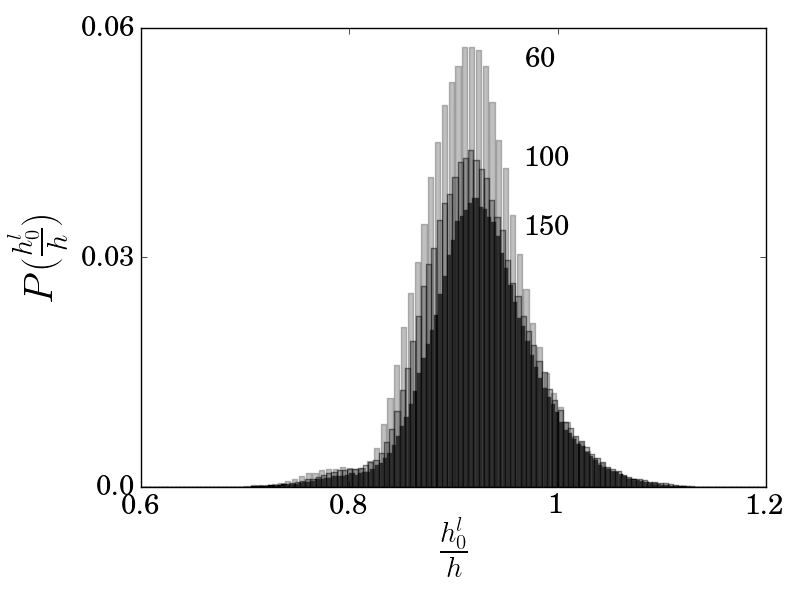
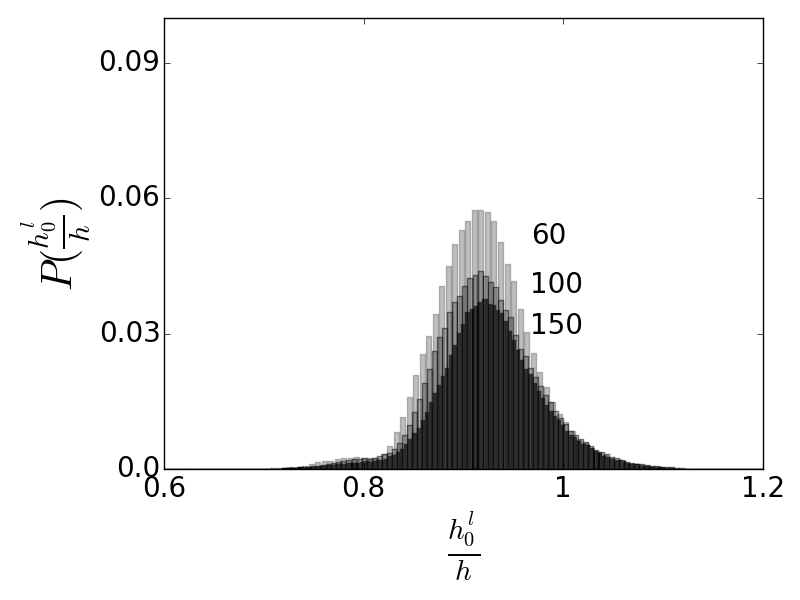
Fig 4 page 18

Changed region(s): [[0.0, 0.03, 1.0, 0.96]]

diff --git a/nchap_sub.tex b/nchap_sub.tex
@@ -343,9 +343,7 @@ In their LES study \cite{BrooksFowler2} encountered inconsistencies when determi
 \quad
 \begin{minipage}[b]{0.5\linewidth}
         \subfloat[]{\label{main:b}          
-          
-                \includegraphics[scale=.31]{figures/rss_fit_low}}
-       
+                \includegraphics[scale=.31]{figures/rss_fit_low}}\\       
        \end{minipage}
 \caption[High local ML ]{Local vertical $\theta$ profiles with 3-line fit for the 60/2.5 run at a point where $h^{l}_{0}$ (a) is high and (b) low.}
 \label{fig:rssfitshigh}
@@ -371,24 +369,24 @@ In their LES study \cite{BrooksFowler2} encountered inconsistencies when determi
 
 Here the CBL height ($h$) is defined as the location of maximum scaled vertical $\overline{\theta}$ gradient as in Figure \ref{fig:hdefs}.  The lower and upper EZ boundaries ($h_{0}$ and $h_{1}$) are then the points at which $\frac{\frac{\partial \overline{\theta}}{\partial z}}{\gamma}$ significantly exceeds zero and where it resumes $1$.  The lower boundary requires a choice of a threshold value which should be small, positive and less than $1$. \cite{FedConzMir04} and \cite{BrooksFowler2} defined the EZ in terms of the vertical $\overline{w^{'}\theta^{'}}$ profiles as in Figure \ref{fig:hdefs} but disagreed on the shape of the relationship of scaled EZ depth to $Ri$ (equation 2.1).  As well as observing this relationship using the height definitions based on the $\frac{\frac{\partial \overline{\theta}}{\partial z}}{\gamma}$ profile, definitions based on the $\frac{\overline{w^{'}\theta^{'}}}{(\overline{w^{'}\theta^{'}})_{s}}$ profile are applied for comparison with \cite{BrooksFowler2}, \cite{FedConzMir04} and \cite{GarciaMellado}.\\  
 
-\begin{figure}[htbp]
-\thisfloatpagestyle{empty}
-\begin
-{minipage}[b]{0.5\linewidth}
-         \subfloat[]{\label{main:a}
-                \includegraphics[scale=.22]{ML_Height_hist_5}
-}\\
-\end{minipage}
-\quad
-\begin{minipage}[b]{0.5\linewidth}
-         \subfloat[]{\label{main:b}
-                \includegraphics[scale=.22]{Scaled_ML_Height_hist_5}
-}\\     
+%\begin{figure}[htbp]
+%\thisfloatpagestyle{empty}
+%\begin
+%{minipage}[b]{0.5\linewidth}
+%         \subfloat[]{\label{main:a}
+%                \includegraphics[scale=.22]{ML_Height_hist_5}
+%}\\
+%\end{minipage}
+%\quad
+%\begin{minipage}[b]{0.5\linewidth}
+%         \subfloat[]{\label{main:b}
+%                \includegraphics[scale=.22]{Scaled_ML_Height_hist_5}
+%}\\     
         
-\end{minipage}
-\caption[Local ML Height Distributions]{Histograms of local ML heights ($h^{l}_{0}$) for the three runs with $\gamma = 5$ Kkm$^{-1}$ are shown in (a). Darker shading corresponds to increase in $(\overline{w^{'}\theta^{'}})_{s}$, i.e. $60 - 150$ Wm$^{-1}$ per plot annotation. Counts are per height bin and bin-widths are 5m.  Probability distributions of scaled local ML height ($\frac{h^{l}_{0}}{h}$) for the three runs with $\gamma = 5$Kkm$^{-1}$ are shown in (b). The probabilities are the proportions in each scaled height bin. Both sets of plots are taken at 5 hours.}    
-\label{fig:localh}
-\end{figure}
+%\end{minipage}
+%\caption[Local ML Height Distributions]{Histograms of local ML heights ($h^{l}_{0}$) for the three runs with $\gamma = 5$ Kkm$^{-1}$ are shown in (a). Darker shading corresponds to increase in $(\overline{w^{'}\theta^{'}})_{s}$, i.e. $60 - 150$ Wm$^{-1}$ per plot annotation. Counts are per height bin and bin-widths are 5m.  Probability distributions of scaled local ML height ($\frac{h^{l}_{0}}{h}$) for the three runs with $\gamma = 5$Kkm$^{-1}$ are shown in (b). The probabilities are the proportions in each scaled height bin. Both sets of plots are taken at 5 hours.}    
+%\label{fig:localh}
+%\end{figure}
 
 \begin{figure}[htbp]
     \centering
@@ -423,25 +421,49 @@ Here the CBL height ($h$) is defined as the location of maximum scaled vertical 
 The distribution of $h_{0}^{l}$ represents the range over which CBL height varies in space so relates to the depth of the entrainment zone (EZ).  In Fig. \ref{fig:localh} (a) it widens with increasing $(\overline{w^{'}\theta^{'}})_{s}$ and is seen to narrow with increasing $\gamma$ in analysis not shown here.  When scaled by $h$, the local ML height distribution narrows with increased $\gamma$.  The upper boundary seems to be constant at about 1.1($\times h$) , whereas the lower boundary increases.  When $h_{0}^{l}$s are lower and their distribution is narrower, the scaled versions have relatively larger spacing between bins and so higher numbers in each bin. In Figure \ref{fig:localh} (b), at higher $(\overline{w^{'}\theta^{'}})_{s}$ there are fewer $\frac{h_{0}^{l}}{h}$ values with higher probabilities, but the width of the distributions is more or less constant regardless of $(w^{'}\theta^{'})_{s}$.\\
 
 
-\begin{figure}[htbp]
-\thisfloatpagestyle{empty}
-\begin
-{minipage}[b]{0.5\linewidth}
-         \subfloat[]{\label{main:a}
-                \includegraphics[scale=.22]{figures/ML_Height_hist_5}
-}\\
-\end{minipage}
-\quad
-\begin{minipage}[b]{0.5\linewidth}
-         \subfloat[]{\label{main:b}
-                \includegraphics[scale=.22]{figures/Scaled_ML_Height_hist_5}
-}\\     
+%\begin{figure}[htbp]
+%\thisfloatpagestyle{empty}
+%\begin
+%{minipage}[b]{0.5\linewidth}
+%         \subfloat[]{\label{main:a}
+%                \includegraphics[scale=.22]{figures/ML_Height_hist_5}
+%}\\
+%\end{minipage}
+%\quad
+%\begin{minipage}[b]{0.5\linewidth}
+%         \subfloat[]{\label{main:b}
+%                \includegraphics[scale=.22]{figures/Scaled_ML_Height_hist_5}
+%}\\     
         
-\end{minipage}
-\caption[Local ML Height Distributions]{Histograms of local ML heights ($h^{l}_{0}$) for the three runs with $\gamma = 5$ Kkm$^{-1}$ are shown in (a). Darker shading corresponds to increase in $(\overline{w^{'}\theta^{'}})_{s}$, i.e. $60 - 150$ Wm$^{-1}$ per plot annotation. Counts are per height bin and bin-widths are 5m.  Probability distributions of scaled local ML height ($\frac{h^{l}_{0}}{h}$) for the three runs with $\gamma = 5$Kkm$^{-1}$ are shown in (b). The probabilities are the proportions in each scaled height bin. Both sets of plots are taken at 5 hours.}
-    
-\label{fig:localh}
+%\end{minipage}
+%\caption
+%\label{fig:localh}
 
+%\end{figure}
+
+\begin{figure}[htbp]
+%\begin{minipage}[b]{0.5\linewidth}
+        \begin{center}
+        \subfloat[]{\label{main:}
+                
+                \includegraphics[scale=.3]{figures/Scaled_ML_Height_hist_2point5}}\\
+\end{center}
+\quad
+\begin{center}
+        \subfloat[]{\label{main:}        
+                
+                \includegraphics[scale=.3]{figures/Scaled_ML_Height_hist_5}}\\      
+\end{center}         
+\quad
+\begin{center}
+        \subfloat[]{\label{main:}          
+               
+                \includegraphics[scale=.3]{figures/Scaled_ML_Height_hist_10}}\\      
+\end{center}       
+
+        \caption[Local Scaled ML Height Distributions]{Probability distributions of scaled local ML heights ($\frac{h^{l}_{0}}{h}$) for $\gamma = 2.5$ Kkm$^{-1}$ (a), $\gamma = 5$ Kkm$^{-1}$ (b) and $\gamma = 10$ Kkm$^{-1}$ (c). Darker shading corresponds to increase in $(\overline{w^{'}\theta^{'}})_{s}$, i.e. $60 - 150$ Wm$^{-1}$ per plot annotation.  The probabilities are the proportions in each scaled height bin. All plots are of output at 5 simulated hours.}
+    
+        \label{fig:scaleddeltahinvri}
 \end{figure}
 
 The lowest $\frac{h^{l}_{0}}{h}$ decrease with decreased stability ($Ri$) causing increased negative skew. This, combined with a widening of the distribution agrees, with the findings of \cite{SullMoengStev} and supports the results based on the average profiles to be discussed later.  The approximate scaled EZ based on the $\frac{h^{l}_{0}}{h}$ distributions is about 0.2 - 0.4 whereas that based on distributions of local maximum tracer gradients by  \cite{BrooksFowler2} was smaller (0.05 - 0.2).  However, the local maximum gradient of the tracer profile would likely be within the EZ at points outside an actively impinging plume and so higher than $h^{l}_{0}$ defined here and the distributions could be quite different. \\  
